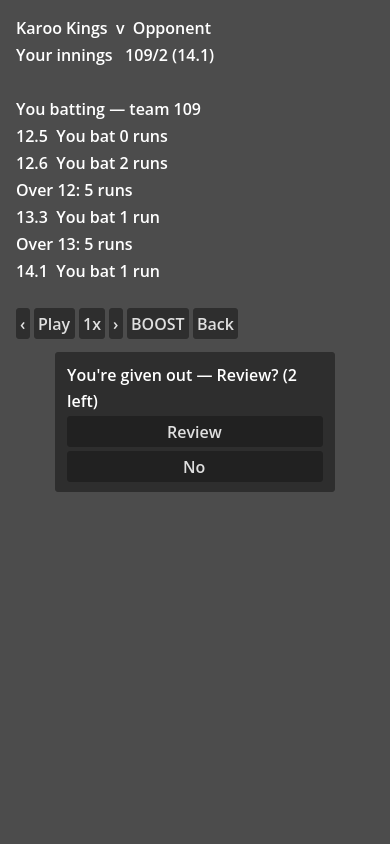
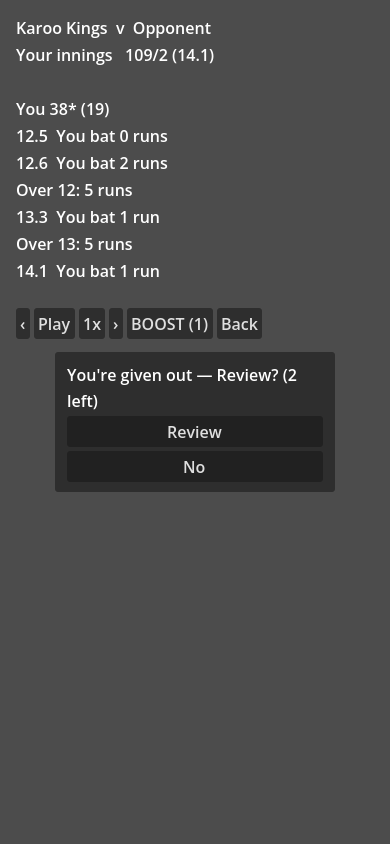
Interactive match: post-game stats, Boost recharge/feedback, log bowling finding
From playtest feedback:
- Post-match: CurrentLine + feed show the player's final card (You: 38 (20) bat · 6/18 (3.0) bowl)
- Boost button: 'BOOST (n)' shows presses left, 'BOOST ON' + fade while active, recharges after the over plays out, 'BOOST 0' when spent (Nico's click-fade-refill ask)
- Roadmap: logged the player-as-bowler disproportionate-wicket-share finding (open design q #3)

610 green; screenshot refreshed (You 38* (19) live, BOOST (1)).

Changed region(s): [[0.4615, 0.3389, 0.6769, 0.4005], [0.3385, 0.1232, 0.5231, 0.154], [0.1231, 0.1232, 0.2769, 0.154]]

diff --git a/PROJECT_ROADMAP.md b/PROJECT_ROADMAP.md
@@ -135,6 +135,7 @@ Surfaced 2026-06-02 while pressure-testing the Player Creation plan. Both are **
 
 1. **Player participation model** — how much the Player personally bats (batting position → balls faced) and bowls (overs) each Match. Candidates: *fixed participation* (build changes only how **well**, not how **much**; bowler-shaped Players still bat, and bat badly emergently) vs *attribute-driven participation* (a bowler-shaped build bats lower / bowls more automatically). Either keeps the classifier label flavour-only per spec §3.5. **Simplest-first leaning: fixed.**
 2. **Bowler-rotation policy** — how an innings' ~20 bowling overs get assigned across bowler-role profiles. *Player side* surfaces as agency via the **Bowling Change** Key Moment; *opponent side* needs an AI rotation policy (currently un-spec'd). Note the scope wall: opponents are regenerated per-Match with no persistent identity or cross-Match form, so "their star bowler is out of form" is **texture-via-commentary**, not simulation — the cheap third door that avoids rebuilding the deferred management sim.
+3. **Individual player-stat realism — the player-as-bowler takes a disproportionate share of wickets (logged 2026-06-15, from interactive-match playtest).** In a sampled match (seed-20260615) the Player bowled 3 overs and took **6/18 — i.e. ALL six opponent wickets fell in his 18 balls**, the other 17 overs taking none. Root suspicion: the player's 3-over spell bowls at his own attack/control (concentrated), and the base DRS claim-review (ungated on the bowling side) can convert dots to wickets in his overs. **This is a NEW concern, orthogonal to the balance work that is "done":** the harness tuned **team win-rates + build-equality + pay**, never *individual* stat realism — so player batting/bowling figures can read unrealistically even though the match outcome is fair. Now that the match screen surfaces these figures (PR #69), they're visible to the player and worth their own calibration rung (measure the player-over wicket share vs a realistic ~per-bowler distribution; likely a participation/conservation tweak, not a ball-math change). **Not blocking presentation.**
 
 ---
 
